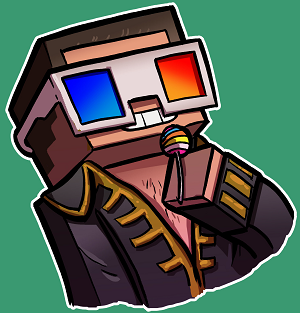
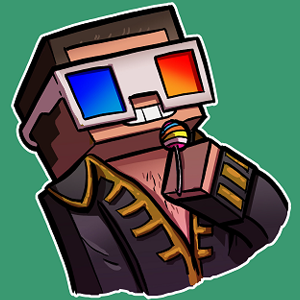
Fix fest And No more javascript
- Fix missing font weight
- Fix broken Github link
- No more Javascript
- Add viewport
- avatar.png is 300x300 now

Changed region(s): [[0.0, 0.0, 0.99, 1.0], [0.51, 0.84, 0.57, 0.87]]

diff --git a/index.html b/index.html
@@ -1,23 +1,28 @@
 <!DOCTYPE html>
-<html>
+<html lang="en">
 <head>
 	<title>Alan736's Homepage</title>
 	<meta charset="utf-8">
+	<meta name="viewport" content="width=device-width, initial-scale=1.0">
 	<link rel="stylesheet" type="text/css" href="style.css">
 	<link rel="stylesheet" href="https://maxcdn.bootstrapcdn.com/font-awesome/4.6.3/css/font-awesome.min.css">
-	<link href='//fonts.googleapis.com/css?family=Lato' rel='stylesheet' type='text/css'>
+	<link href='https://fonts.googleapis.com/css?family=Lato:700,400' rel='stylesheet' type='text/css'>
 	<link rel="shortcut icon" href="favicon.ico" type="image/x-icon">
 	<link rel="icon" href="favicon.ico" type="image/x-icon">
 </head>
 
 <body>
 	<div class="content">
-		<img alt="Alan736 Avatar" width="200" height="200" src="img/avatar.png" onmouseover="hover(this);" onmouseout="unhover(this);" />
+		<div class="avatar-container">
+			<img id="default-avatar" alt="Alan736 Avatar" src="img/avatar.png" />
+			<img id="alt-avatar" alt="Alan736 Avatar" src="img/avatar_hidden.jpeg" />
+		</div>
+
 		<h1>Alan736</h1>
 		<p class="subtitle">Hello! Welcome to my placeholder page for my domain. It is up to you to discover the subdomains.</p>
 		<h3>On the internet</h3>
 		<div class="icons">
-			<a class="link-github" href="https://github/alan736">
+			<a class="link-github" href="https://github.com/alan736">
 				<i class="fa fa-github" aria-hidden="true"></i>
 			</a>
 			<a class="link-twitter" href="https://twitter.com/alan736">
@@ -32,6 +37,5 @@
 		</div>
 	</div>
 	<img class="bottom-sticky" width="150" src="img/oh.png" />
-	<script src="script.js" type="text/javascript"></script>
 </body>
 </html>

diff --git a/style.css b/style.css
@@ -4,10 +4,6 @@ body {
 	color:#FFFFFF;
 }
 
-img {
-	border-radius: 0.3125em;
-}
-
 .content {
 	margin:0 auto;
 	margin-top:10em;
@@ -15,8 +11,43 @@ img {
 	text-align: center;
 }
 
+.avatar-container {
+	position:relative;
+	margin: 0 auto;
+	font-size:0;
+	width:200px;
+	height:auto;
+}
+
+.avatar-container img {
+	font-size: 1rem;
+	max-width:100%;
+	border-radius: 0.3125rem;
+}
+
+#default-avatar {
+	position:absolute;
+	top: 0;
+	left: 0;
+	z-index: 4;
+	-webkit-transition: all 0.5s ease 0.1s;
+	transition: all 0.5s ease 0.1s;
+	opacity: 1;
+}
+
+#alt-avatar {
+	position: relative;
+	z-index: 3;
+}
+
+.avatar-container:hover #default-avatar {
+	opacity:0;
+}
+
 .fa {
 	font-size: 2.5em !important;
+	-webkit-transition: all 250ms ease 20ms;
+	transition: all 250ms ease 20ms;
 }
 
 .icons .fa {
@@ -33,7 +64,6 @@ img {
 
 .icons .fa-github:hover {
 	color: #76258B;
-	border
 }
 
 .icons .fa-film:hover {
